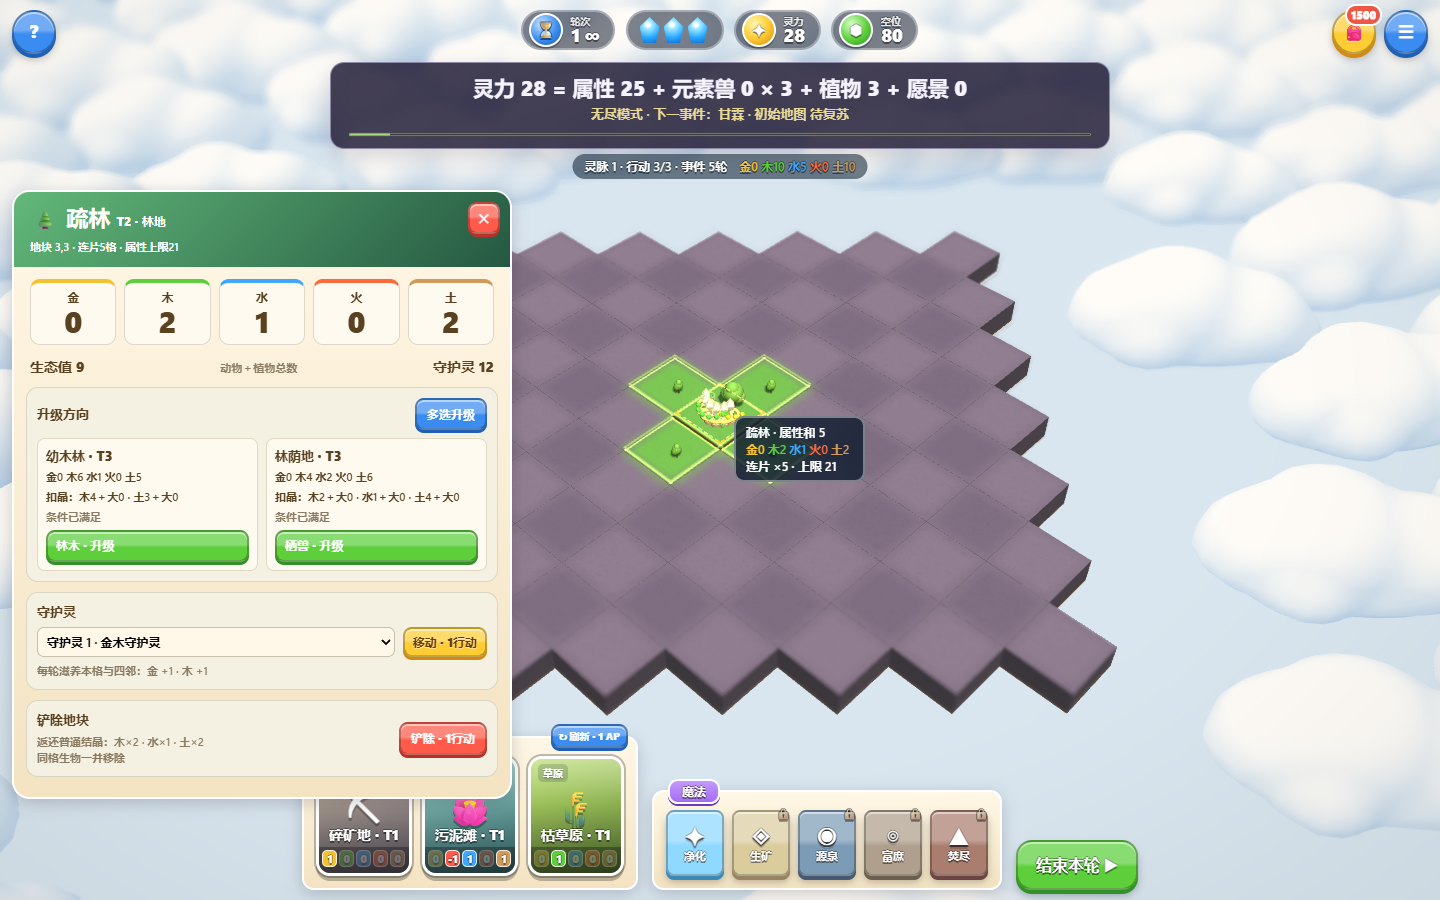
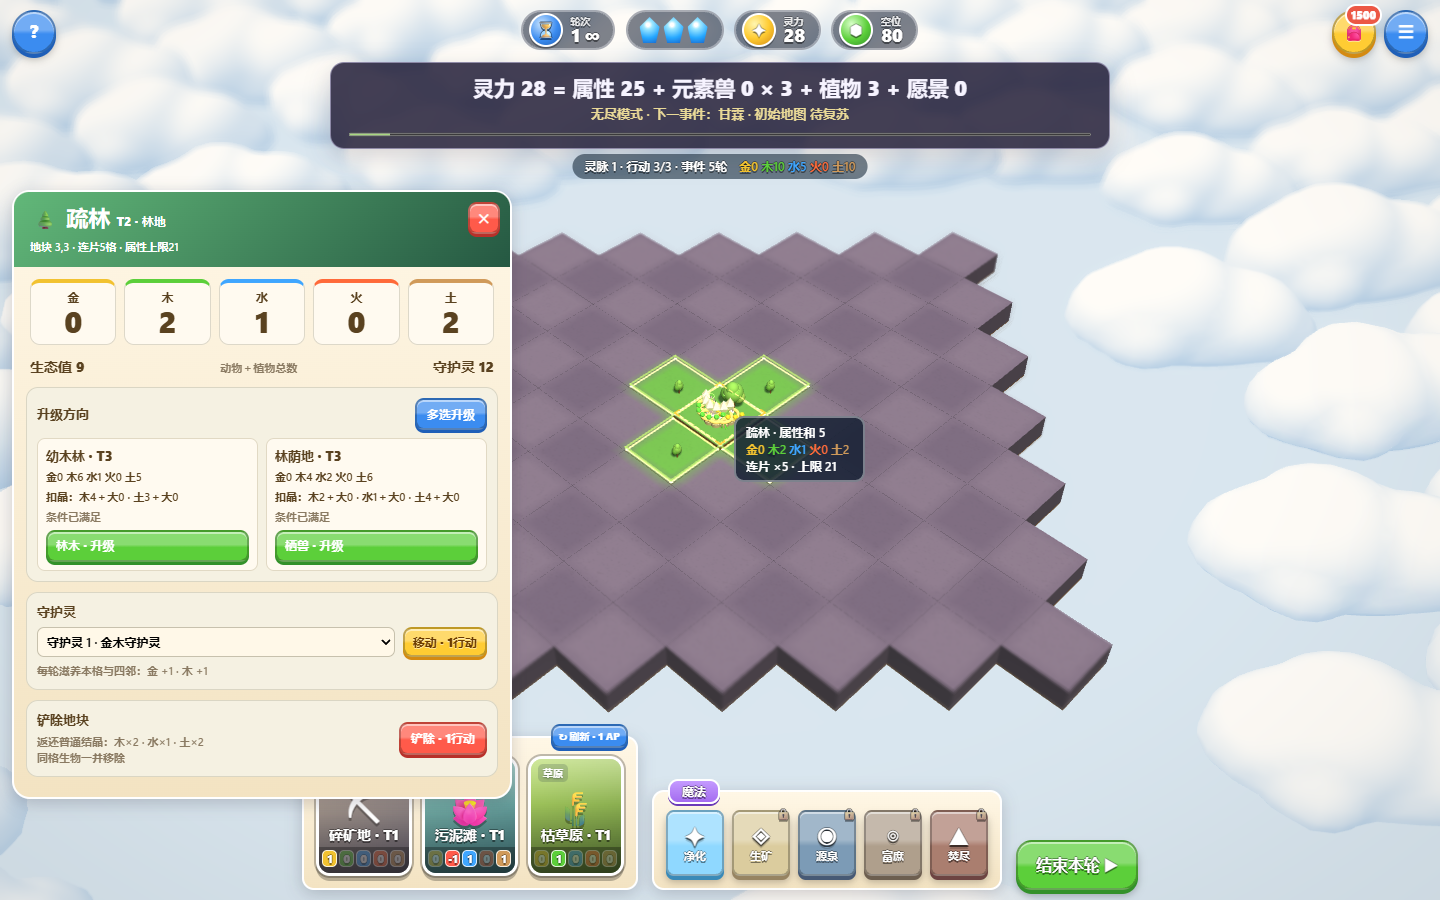
Record verified production nature events, audio and terrain interface

diff --git a/docs/SEASON-UPDATE-2026-10-14.md b/docs/SEASON-UPDATE-2026-10-14.md
@@ -56,3 +56,9 @@
 ![待放卡片属性](screenshots/season-2026-10-14-offer-phone.png)
 
 报告保存于忽略的 `artifacts/season-fast.log`、`season-ui-local.json`、`detail-layout.json`、`crystal-check-local.json`、`demolition-local.json`、`feedback/feedback-report.json`。
+
+## 正式发布
+
+已发布到 https://element-habitat.vercel.app ，部署 `dpl_2yUHhHsvH5qevJpUfYYQ6nEtSqpX` 为 READY / production；游戏源码提交 `7f8144f3894126f6264eaa2ddbe55b4b60e8af6d`。
+
+正式网址直接执行同一套桌面／手机23项检查，全部通过，浏览器、音频与WebGL错误0；没有替换游戏逻辑，只注入只读音频／渲染观察探针。5个音乐阶段均有实际输出。上述新版截图已更新为正式站点捕获；线上报告在忽略的 `artifacts/season-ui-production.json`。
